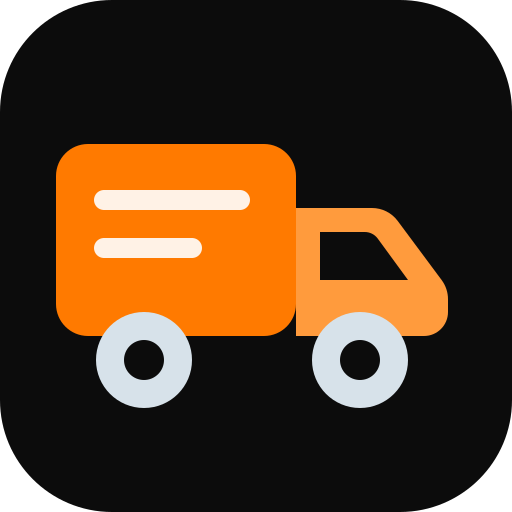
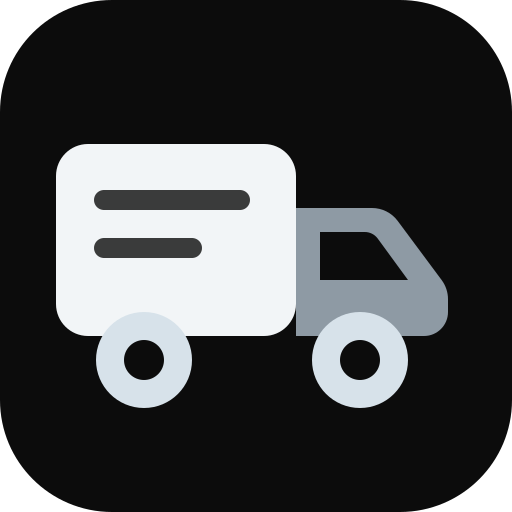
Switch palette to monochrome
Drop the orange accent across buttons, truck illustration, logo, favicons
and OG image in favour of white/grey on black; prices on the white section
become solid ink for contrast.

Claude-Session: https://claude.ai/code/session_017v3hXeoVSQ5PnZGPP4MUjb

Changed region(s): [[0.0938, 0.2812, 0.875, 0.6562]]

diff --git a/scripts/og.html b/scripts/og.html
@@ -7,26 +7,26 @@
   * { margin: 0; padding: 0; box-sizing: border-box; }
   html, body { width: 1200px; height: 630px; background: #0C0C0C; font-family: "Pretendard Variable", sans-serif; color: #D7E2EA; overflow: hidden; word-break: keep-all; }
   .wrap { position: relative; width: 1200px; height: 630px; padding: 64px 72px; display: flex; flex-direction: column; justify-content: space-between; }
-  .glow { position: absolute; right: -120px; bottom: -220px; width: 720px; height: 720px; border-radius: 50%; background: radial-gradient(circle, rgba(255,122,0,.35) 0%, rgba(255,122,0,0) 65%); }
+  .glow { position: absolute; right: -120px; bottom: -220px; width: 720px; height: 720px; border-radius: 50%; background: radial-gradient(circle, rgba(215,226,234,.22) 0%, rgba(215,226,234,0) 65%); }
   .brand { display: flex; align-items: center; gap: 18px; }
   .brand svg { width: 72px; height: 72px; }
   .brand .name { font-size: 40px; font-weight: 900; color: #fff; letter-spacing: -1px; line-height: 1; }
   .brand .sub { font-size: 16px; letter-spacing: .25em; color: rgba(215,226,234,.7); margin-top: 8px; }
   h1 { font-size: 120px; font-weight: 900; line-height: 1.02; letter-spacing: -4px;
        background: linear-gradient(180deg, #646973 0%, #BBCCD7 100%); -webkit-background-clip: text; background-clip: text; -webkit-text-fill-color: transparent; }
-  h1 b { background: linear-gradient(180deg, #FFB35C 0%, #FF7A00 55%, #FF3D00 100%); -webkit-background-clip: text; background-clip: text; -webkit-text-fill-color: transparent; }
+  h1 b { background: linear-gradient(180deg, #FFFFFF 0%, #D7E2EA 60%, #8E9AA4 100%); -webkit-background-clip: text; background-clip: text; -webkit-text-fill-color: transparent; }
   .bottom { display: flex; justify-content: space-between; align-items: flex-end; }
   .desc { font-size: 26px; font-weight: 500; line-height: 1.4; max-width: 720px; }
-  .desc span { color: #FF7A00; font-weight: 800; }
-  .pill { font-size: 30px; font-weight: 800; color: #fff; padding: 20px 40px; border-radius: 999px;
-          background: linear-gradient(123deg, #1F0A00 7%, #FF6A00 37%, #FF3D00 72%, #FFB000 100%); outline: 2px solid #fff; outline-offset: -3px; white-space: nowrap; }
+  .desc span { color: #FFFFFF; font-weight: 800; }
+  .pill { font-size: 30px; font-weight: 800; color: #0C0C0C; padding: 20px 40px; border-radius: 999px;
+          background: linear-gradient(180deg, #FFFFFF 0%, #E4EBF0 100%); box-shadow: 0 10px 30px rgba(255,255,255,.12); white-space: nowrap; }
 </style>
 </head>
 <body>
 <div class="wrap">
   <div class="glow"></div>
   <div class="brand">
-    <svg viewBox="0 0 64 64"><rect x="4" y="16" width="34" height="28" rx="5" fill="#FF7A00"/><path d="M38 26h10.5a4 4 0 0 1 3.2 1.6l6.5 8.7A4 4 0 0 1 59 38.7V41a3 3 0 0 1-3 3H38V26Z" fill="#FF9B3D"/><path d="M41 29h6.6a2 2 0 0 1 1.6.8l4.6 6.2H41V29Z" fill="#0C0C0C"/><circle cx="17" cy="47" r="7" fill="#D7E2EA"/><circle cx="17" cy="47" r="3" fill="#0C0C0C"/><circle cx="47" cy="47" r="7" fill="#D7E2EA"/><circle cx="47" cy="47" r="3" fill="#0C0C0C"/><path d="M11 24h20M11 30h14" stroke="#fff" stroke-width="3" stroke-linecap="round" opacity=".9"/></svg>
+    <svg viewBox="0 0 64 64"><rect x="4" y="16" width="34" height="28" rx="5" fill="#F2F5F7"/><path d="M38 26h10.5a4 4 0 0 1 3.2 1.6l6.5 8.7A4 4 0 0 1 59 38.7V41a3 3 0 0 1-3 3H38V26Z" fill="#8E9AA4"/><path d="M41 29h6.6a2 2 0 0 1 1.6.8l4.6 6.2H41V29Z" fill="#0C0C0C"/><circle cx="17" cy="47" r="7" fill="#D7E2EA"/><circle cx="17" cy="47" r="3" fill="#0C0C0C"/><circle cx="47" cy="47" r="7" fill="#D7E2EA"/><circle cx="47" cy="47" r="3" fill="#0C0C0C"/><path d="M11 24h20M11 30h14" stroke="#0C0C0C" stroke-width="3" stroke-linecap="round" opacity=".8"/></svg>
     <div><div class="name">박기사</div><div class="sub">부산 용달 · 이사</div></div>
   </div>
   <h1>부산 <b>용달·원룸이사</b><br/>30년 경력 박기사</h1>

diff --git a/src/components/HeroTruck.tsx b/src/components/HeroTruck.tsx
@@ -9,16 +9,16 @@ export function HeroTruck({ className = "" }: { className?: string }) {
     >
       <defs>
         <linearGradient id="box" x1="0" y1="0" x2="0" y2="1">
-          <stop offset="0" stopColor="#FFA24A" />
-          <stop offset="1" stopColor="#FF6A00" />
+          <stop offset="0" stopColor="#FFFFFF" />
+          <stop offset="1" stopColor="#C9D3DA" />
         </linearGradient>
         <linearGradient id="cab" x1="0" y1="0" x2="0" y2="1">
-          <stop offset="0" stopColor="#FF8A1F" />
-          <stop offset="1" stopColor="#E85400" />
+          <stop offset="0" stopColor="#8E9AA4" />
+          <stop offset="1" stopColor="#5C6770" />
         </linearGradient>
         <radialGradient id="glow" cx="50%" cy="50%" r="50%">
-          <stop offset="0" stopColor="#FF7A00" stopOpacity=".35" />
-          <stop offset="1" stopColor="#FF7A00" stopOpacity="0" />
+          <stop offset="0" stopColor="#D7E2EA" stopOpacity=".22" />
+          <stop offset="1" stopColor="#D7E2EA" stopOpacity="0" />
         </radialGradient>
       </defs>
 
@@ -26,8 +26,7 @@ export function HeroTruck({ className = "" }: { className?: string }) {
 
       {/* cargo box */}
       <rect x="30" y="60" width="300" height="160" rx="16" fill="url(#box)" />
-      <rect x="30" y="60" width="300" height="160" rx="16" stroke="#fff" strokeOpacity=".25" strokeWidth="2" />
-      <rect x="46" y="76" width="268" height="128" rx="10" stroke="#fff" strokeOpacity=".2" strokeWidth="2" strokeDasharray="6 8" />
+      <rect x="46" y="76" width="268" height="128" rx="10" stroke="#0C0C0C" strokeOpacity=".18" strokeWidth="2" strokeDasharray="6 8" />
       <text
         x="180"
         y="152"
@@ -35,7 +34,7 @@ export function HeroTruck({ className = "" }: { className?: string }) {
         fontFamily="inherit"
         fontWeight="900"
         fontSize="64"
-        fill="#fff"
+        fill="#0C0C0C"
         letterSpacing="-2"
       >
         박기사
@@ -47,8 +46,8 @@ export function HeroTruck({ className = "" }: { className?: string }) {
         fontFamily="inherit"
         fontWeight="600"
         fontSize="18"
-        fill="#fff"
-        fillOpacity=".85"
+        fill="#0C0C0C"
+        fillOpacity=".7"
         letterSpacing="4"
       >
         부산 용달 · 이사 · 화물 · 폐기물
@@ -64,8 +63,8 @@ export function HeroTruck({ className = "" }: { className?: string }) {
       />
       <path d="M346 112h52a10 10 0 0 1 8 4l34 46H346v-50Z" fill="#0C0C0C" />
       <path d="M352 118h44a6 6 0 0 1 5 2.5L428 156h-76v-38Z" fill="#1c2733" />
-      <rect x="440" y="166" width="24" height="8" rx="3" fill="#fff" opacity=".6" />
-      <rect x="456" y="192" width="20" height="10" rx="3" fill="#FFE07A" />
+      <rect x="440" y="166" width="24" height="8" rx="3" fill="#fff" opacity=".7" />
+      <rect x="456" y="192" width="20" height="10" rx="3" fill="#FFFFFF" />
       <rect x="336" y="170" width="12" height="30" rx="3" fill="#0C0C0C" opacity=".4" />
 
       {/* bumper */}

diff --git a/src/app/globals.css b/src/app/globals.css
@@ -4,8 +4,8 @@
 @theme {
   --color-ink: #0c0c0c;
   --color-mist: #d7e2ea;
-  --color-brand: #ff7a00;
-  --color-brand-deep: #ff3d00;
+  --color-brand: #f2f5f7;
+  --color-brand-deep: #8e9aa4;
   --font-sans: "Pretendard Variable", Pretendard, -apple-system, BlinkMacSystemFont,
     system-ui, "Apple SD Gothic Neo", "Noto Sans KR", sans-serif;
 }
@@ -32,7 +32,7 @@ body {
 }
 
 .brand-heading {
-  background: linear-gradient(180deg, #ffb35c 0%, #ff7a00 55%, #ff3d00 100%);
+  background: linear-gradient(180deg, #ffffff 0%, #d7e2ea 60%, #8e9aa4 100%);
   -webkit-background-clip: text;
   background-clip: text;
   -webkit-text-fill-color: transparent;
@@ -40,12 +40,11 @@ body {
 }
 
 .cta-gradient {
-  background: linear-gradient(123deg, #1f0a00 7%, #ff6a00 37%, #ff3d00 72%, #ffb000 100%);
+  background: linear-gradient(180deg, #ffffff 0%, #e4ebf0 100%);
+  color: #0c0c0c;
   box-shadow:
-    0 4px 4px rgba(255, 106, 0, 0.25),
-    4px 4px 12px #ff3d00 inset;
-  outline: 2px solid #fff;
-  outline-offset: -3px;
+    0 10px 30px rgba(255, 255, 255, 0.12),
+    0 1px 0 rgba(255, 255, 255, 0.6) inset;
 }
 
 @media (prefers-reduced-motion: reduce) {

diff --git a/src/components/Logo.tsx b/src/components/Logo.tsx
@@ -1,18 +1,17 @@
 export function TruckMark({ className = "" }: { className?: string }) {
   return (
     <svg viewBox="0 0 64 64" className={className} aria-hidden="true" fill="none">
-      <rect x="4" y="16" width="34" height="28" rx="5" fill="#FF7A00" />
+      <rect x="4" y="16" width="34" height="28" rx="5" fill="#F2F5F7" />
       <path
         d="M38 26h10.5a4 4 0 0 1 3.2 1.6l6.5 8.7A4 4 0 0 1 59 38.7V41a3 3 0 0 1-3 3H38V26Z"
-        fill="#FF9B3D"
+        fill="#8E9AA4"
       />
       <path d="M41 29h6.6a2 2 0 0 1 1.6.8l4.6 6.2H41V29Z" fill="#0C0C0C" />
-      <rect x="4" y="40" width="55" height="4" rx="2" fill="#0C0C0C" opacity=".35" />
       <circle cx="17" cy="47" r="7" fill="#D7E2EA" />
       <circle cx="17" cy="47" r="3" fill="#0C0C0C" />
       <circle cx="47" cy="47" r="7" fill="#D7E2EA" />
       <circle cx="47" cy="47" r="3" fill="#0C0C0C" />
-      <path d="M11 24h20M11 30h14" stroke="#fff" strokeWidth="3" strokeLinecap="round" opacity=".9" />
+      <path d="M11 24h20M11 30h14" stroke="#0C0C0C" strokeWidth="3" strokeLinecap="round" opacity=".8" />
     </svg>
   );
 }

diff --git a/src/components/QuoteForm.tsx b/src/components/QuoteForm.tsx
@@ -117,7 +117,7 @@ export function QuoteForm() {
           <div className="mt-2 flex flex-col gap-3 sm:flex-row">
             <button
               type="submit"
-              className="cta-gradient inline-flex flex-1 items-center justify-center gap-2 rounded-full px-8 py-4 text-base font-semibold text-white transition-transform hover:scale-[1.02] active:scale-95"
+              className="cta-gradient inline-flex flex-1 items-center justify-center gap-2 rounded-full px-8 py-4 text-base font-semibold text-ink transition-transform hover:scale-[1.02] active:scale-95"
             >
               <MessageSquareText className="size-5" strokeWidth={2.5} />
               문자로 견적 보내기

diff --git a/src/components/Services.tsx b/src/components/Services.tsx
@@ -35,7 +35,7 @@ export function Services() {
               <div className="flex flex-wrap items-baseline justify-between gap-x-6 gap-y-1">
                 <h3 className="text-[clamp(1.25rem,2.4vw,2.1rem)] font-bold leading-tight">{s.name}</h3>
                 <div className="text-right">
-                  <span className="brand-heading text-[clamp(1.35rem,2.6vw,2.2rem)] font-black leading-none tracking-tight">
+                  <span className="text-[clamp(1.35rem,2.6vw,2.2rem)] font-black leading-none tracking-tight text-ink">
                     {s.price}
                   </span>
                   {s.priceNote && <div className="text-xs text-ink/50">{s.priceNote}</div>}

diff --git a/src/components/MobileCtaBar.tsx b/src/components/MobileCtaBar.tsx
@@ -6,7 +6,7 @@ export function MobileCtaBar() {
     <div className="fixed inset-x-0 bottom-0 z-50 grid grid-cols-2 gap-2 border-t border-mist/10 bg-ink/90 p-3 backdrop-blur md:hidden [padding-bottom:calc(0.75rem+env(safe-area-inset-bottom))]">
       <a
         href={site.phoneHref}
-        className="cta-gradient inline-flex items-center justify-center gap-2 rounded-full py-3.5 text-sm font-bold text-white active:scale-95"
+        className="cta-gradient inline-flex items-center justify-center gap-2 rounded-full py-3.5 text-sm font-bold text-ink active:scale-95"
       >
         <Phone className="size-4" strokeWidth={2.5} />
         전화 연결

diff --git a/src/components/Buttons.tsx b/src/components/Buttons.tsx
@@ -8,7 +8,7 @@ export function CallButton({ className = "", label = "전화 연결" }: { classN
   return (
     <a
       href={site.phoneHref}
-      className={`${base} cta-gradient text-white px-7 py-3 sm:px-9 sm:py-3.5 md:px-11 md:py-4 text-sm sm:text-base hover:scale-[1.03] ${className}`}
+      className={`${base} cta-gradient text-ink px-7 py-3 sm:px-9 sm:py-3.5 md:px-11 md:py-4 text-sm sm:text-base hover:scale-[1.03] ${className}`}
       aria-label={`${label} ${site.phone}`}
     >
       <Phone className="size-4 sm:size-5" strokeWidth={2.5} />

diff --git a/src/components/Hero.tsx b/src/components/Hero.tsx
@@ -52,7 +52,7 @@ export function Hero() {
           className="pointer-events-none z-10 flex w-full justify-center sm:absolute sm:inset-x-0 sm:bottom-0"
         >
           <Magnet className="pointer-events-auto w-[320px] sm:w-[400px] md:w-[500px] lg:w-[580px]">
-            <HeroTruck className="h-auto w-full drop-shadow-[0_30px_60px_rgba(255,122,0,0.25)]" />
+            <HeroTruck className="h-auto w-full drop-shadow-[0_30px_60px_rgba(215,226,234,0.18)]" />
           </Magnet>
         </FadeIn>
 
